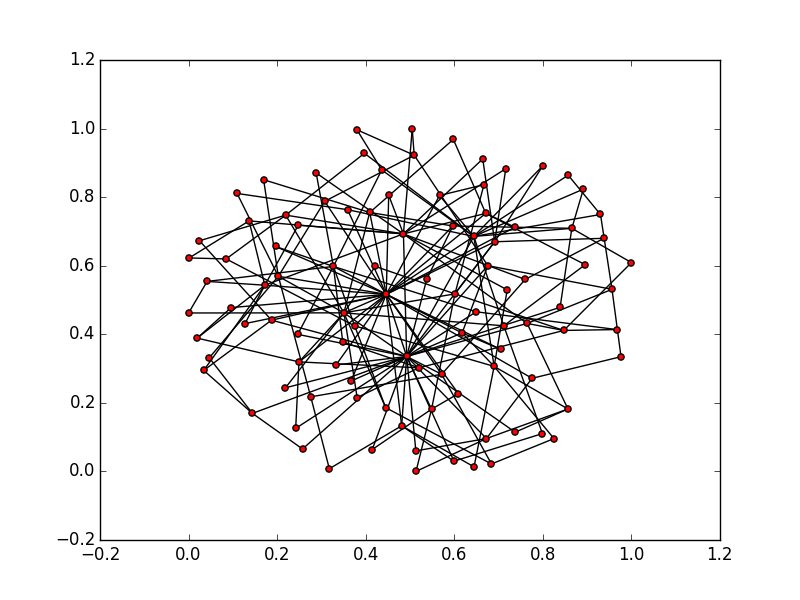
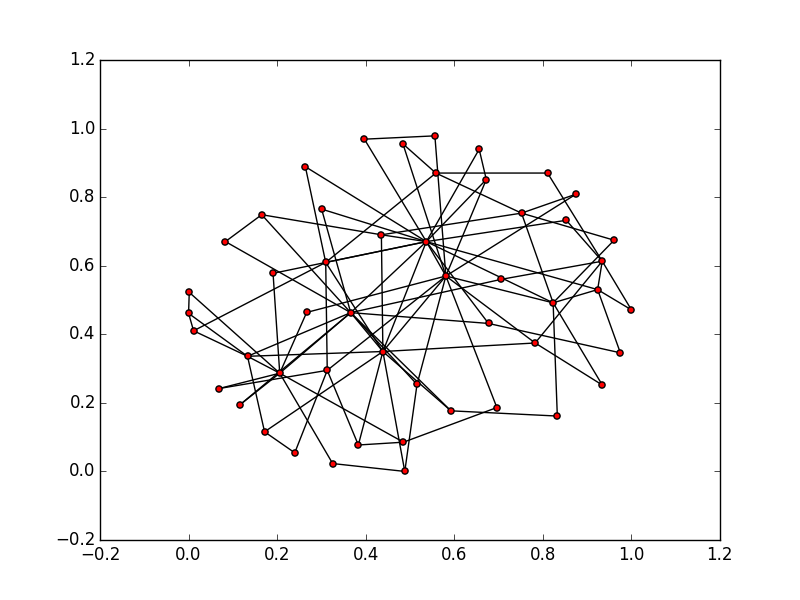
Chemical Smell
Committed due to terrible smell.

Changed region(s): [[0.2188, 0.21, 0.8125, 0.81]]

diff --git a/second_try.py b/second_try.py
@@ -22,13 +22,13 @@ def diff(a, b):
 G = nx.Graph()
 cascade_list = []
 not_seen_list = []
+cascade_adjacencies = []
 
 def find_next_link_BF_no_iter(input):
     j,i,beta, epsilon, missing_p = input
     time_evaluator = stats.expon.pdf
     delta = 0
     for c in range(len(cascade_list)):
-        #if i preceeds j in this cascade
         current_cascade = cascade_list[c]
         A = np.zeros(shape=(len(G.nodes()),len(G.nodes())))
         already_selected = [current_cascade[0][1]] #add index of source
@@ -67,6 +67,33 @@ def find_next_link_BF_no_iter(input):
     print((j,i))
     return (delta, (j,i))
 
+def find_next_link_with_adj_no_iter(input):
+    j,i,beta, epsilon, missing_p = input
+    time_evaluator = stats.expon.pdf
+    delta = 0
+    for c in range(len(cascade_list)):
+        #we split this into 4 cases
+        if(j not in cascade_list[c].nodes()):
+            #1) if the parent is not in the cascade
+            if(i not in cascade_list[c].nodes()):
+                #1a) if both the parent and the child are not in the cascade
+                continue
+            
+            #1b) the child is in the cascade but the parent is not
+            
+        elif(i not in cascade_list[c].nodes()):
+            #2) if the child is not in the cascade but the parent is
+            
+            
+        elif(cascade_list[c].node[i]['time'] < cascade_list[c].node[j]['time']):
+            #3) both are in the cascade but the parent appears after the child
+            continue
+        elif(i in cascade_list[c].nodes() and j in cascade_list[c].nodes()):
+            
+            
+        current_cascade = cascade_list[c]
+        
+    
 
 def NetInf(k, graph_name, number_of_cascades, cascade_directory, missing_p, num_threads = 8, time_evaluator= stats.expon.pdf, beta = 0.5, epsilon = 0.0001):
     #
@@ -85,12 +112,15 @@ def NetInf(k, graph_name, number_of_cascades, cascade_directory, missing_p, num_
     #
     #Initial Trees(!)
     #
+    global cascade_adjacencies
+    
     for c in range(number_of_cascades):
         f = open(cascade_directory + graph_name + '/' +graph_name + '_' + str(c) + '.p', 'rb')
         current_cascade = pickle.load(f)
         f.close()
         
         cascade_list.append(current_cascade);
+        cascade_adjacencies.append(np.zeros(size(len(G.nodes()))))
     
     for c in range(number_of_cascades):
         not_seen_list.append(diff(G.nodes(), [tuple[1] for tuple in cascade_list[c]]))

diff --git a/run.py b/run.py
@@ -12,15 +12,16 @@ import numpy as np
 import networkx as nx
 import pickle
 import time
+import first_try
 
 beta = 0.7
 cascade_directory = './cascade_data/'
-graph_name = 'ba_100'
-number_of_cascades = 500
+graph_name = 'ba_50'
+number_of_cascades = 50
 
 np.random.seed(1919)
-generate_ba_graph(100,m=2,file_name='ba_100.p',directory_path=cascade_directory)
-generate_cascades(number_of_cascades, spread_probability=beta , graph_file='ba_100.p',directory_path=cascade_directory)
+generate_ba_graph(50,m=2,file_name=graph_name+'.p',directory_path=cascade_directory)
+generate_cascades(number_of_cascades, spread_probability=beta , graph_file='ba_50.p',directory_path=cascade_directory)
 
 f = open(cascade_directory + graph_name + '.p','rb')
 k = len(pickle.load(f).edges())
@@ -31,8 +32,16 @@ f.close()
 #stop = time.time()
 #print("Single Thread Time: %f" % (stop - start))
 
+print("k = %d" % k)
+
+# start = time.time()
+# G = netInf_mult.NetInf(k, graph_name, number_of_cascades, cascade_directory,beta=beta,num_threads=6)
+# stop = time.time()
+
+# print("Multi Thread Time: %f" % (stop - start))
+
 start = time.time()
-G = netInf_mult.NetInf(k, graph_name, number_of_cascades, cascade_directory,beta=beta,num_threads=6)
+first_try.NetInf(k, graph_name, number_of_cascades, cascade_directory, 0,beta=beta,num_threads=6)
 stop = time.time()
 
-print("Multi Thread Time: %f" % (stop - start))
+print("New Algorithm Time: %f" % (stop - start))

diff --git a/netInf_mult.py b/netInf_mult.py
@@ -183,7 +183,7 @@ def NetInf(k, graph_name, number_of_cascades, cascade_directory, num_threads = 8
             active_set.append((j,i))
         
         #determine block size
-        block_size = len(active_set)//(num_threads)
+        block_size = len(active_set)//(num_threads) + 1
         #remainder = len(active_set) - (block_size * num_threads)
         
         #create oiik

diff --git a/noise.py b/noise.py
@@ -34,4 +34,4 @@ def noise_the_data(graph_name,cascade_directory,number_of_cascades , p= 0.01):
     
 
 if __name__ == '__main__':
-    noise_the_data('ba_100','./cascade_data/',500)
+    noise_the_data('ba_50','./cascade_data/',500)
